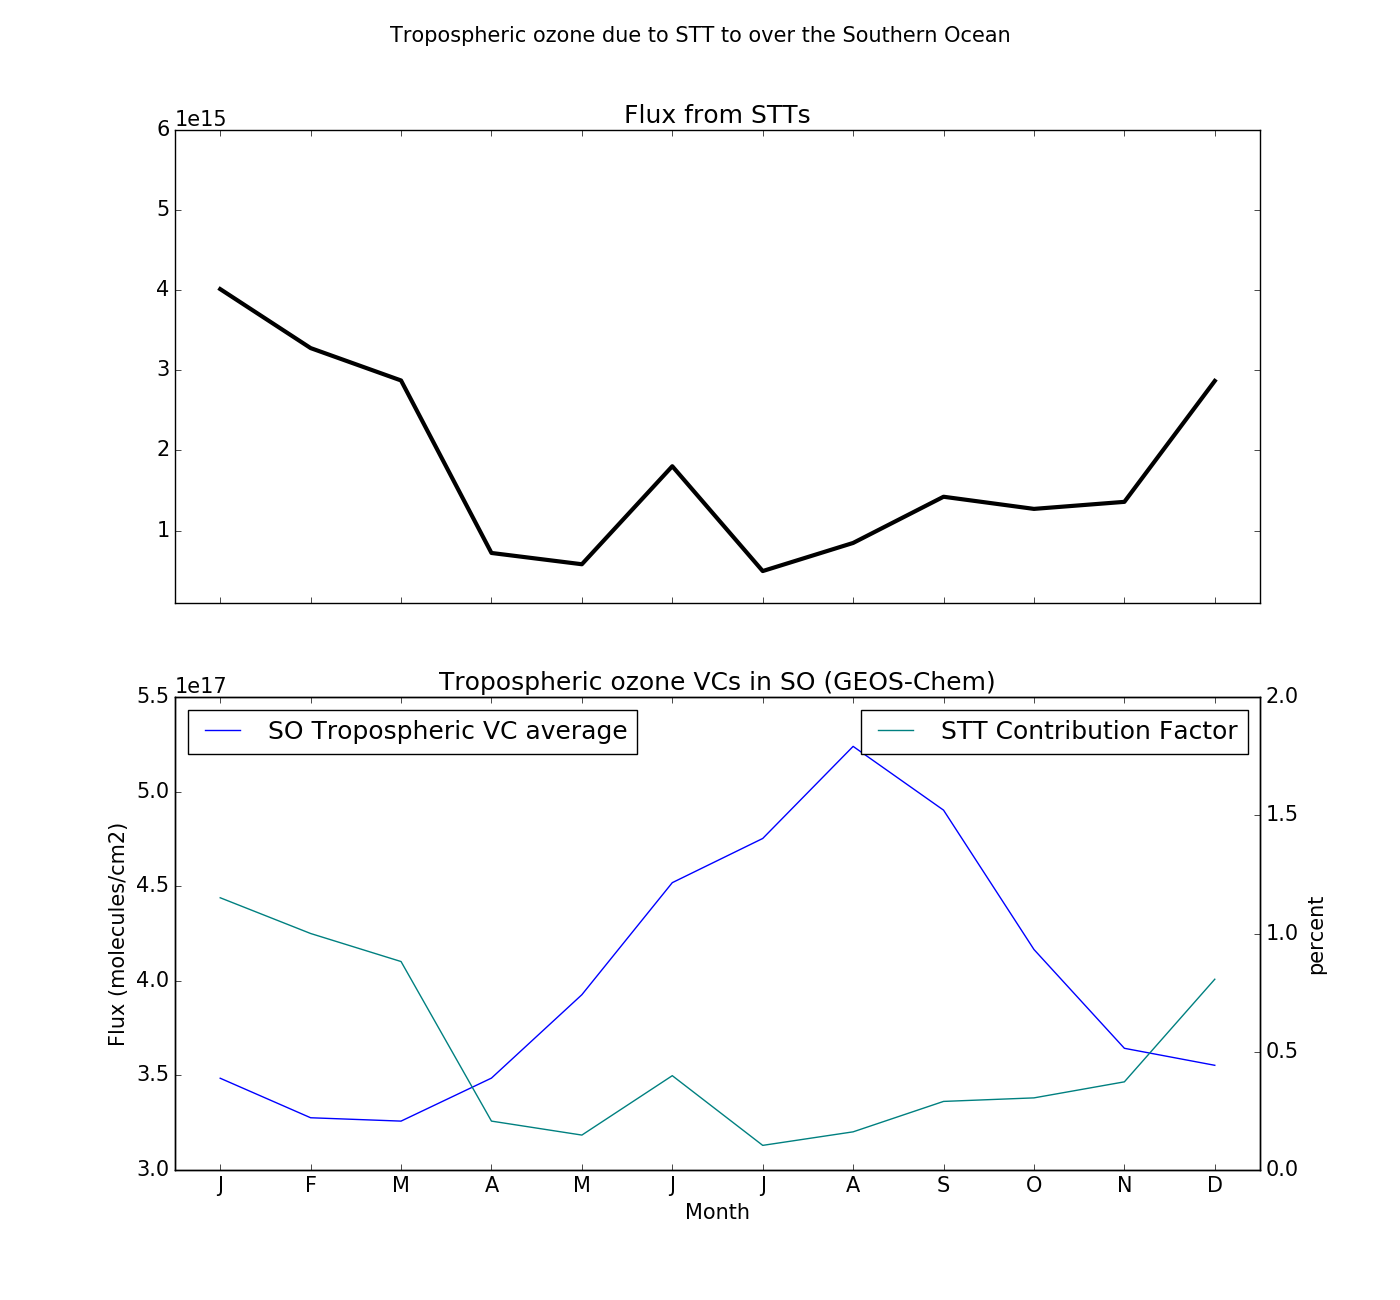
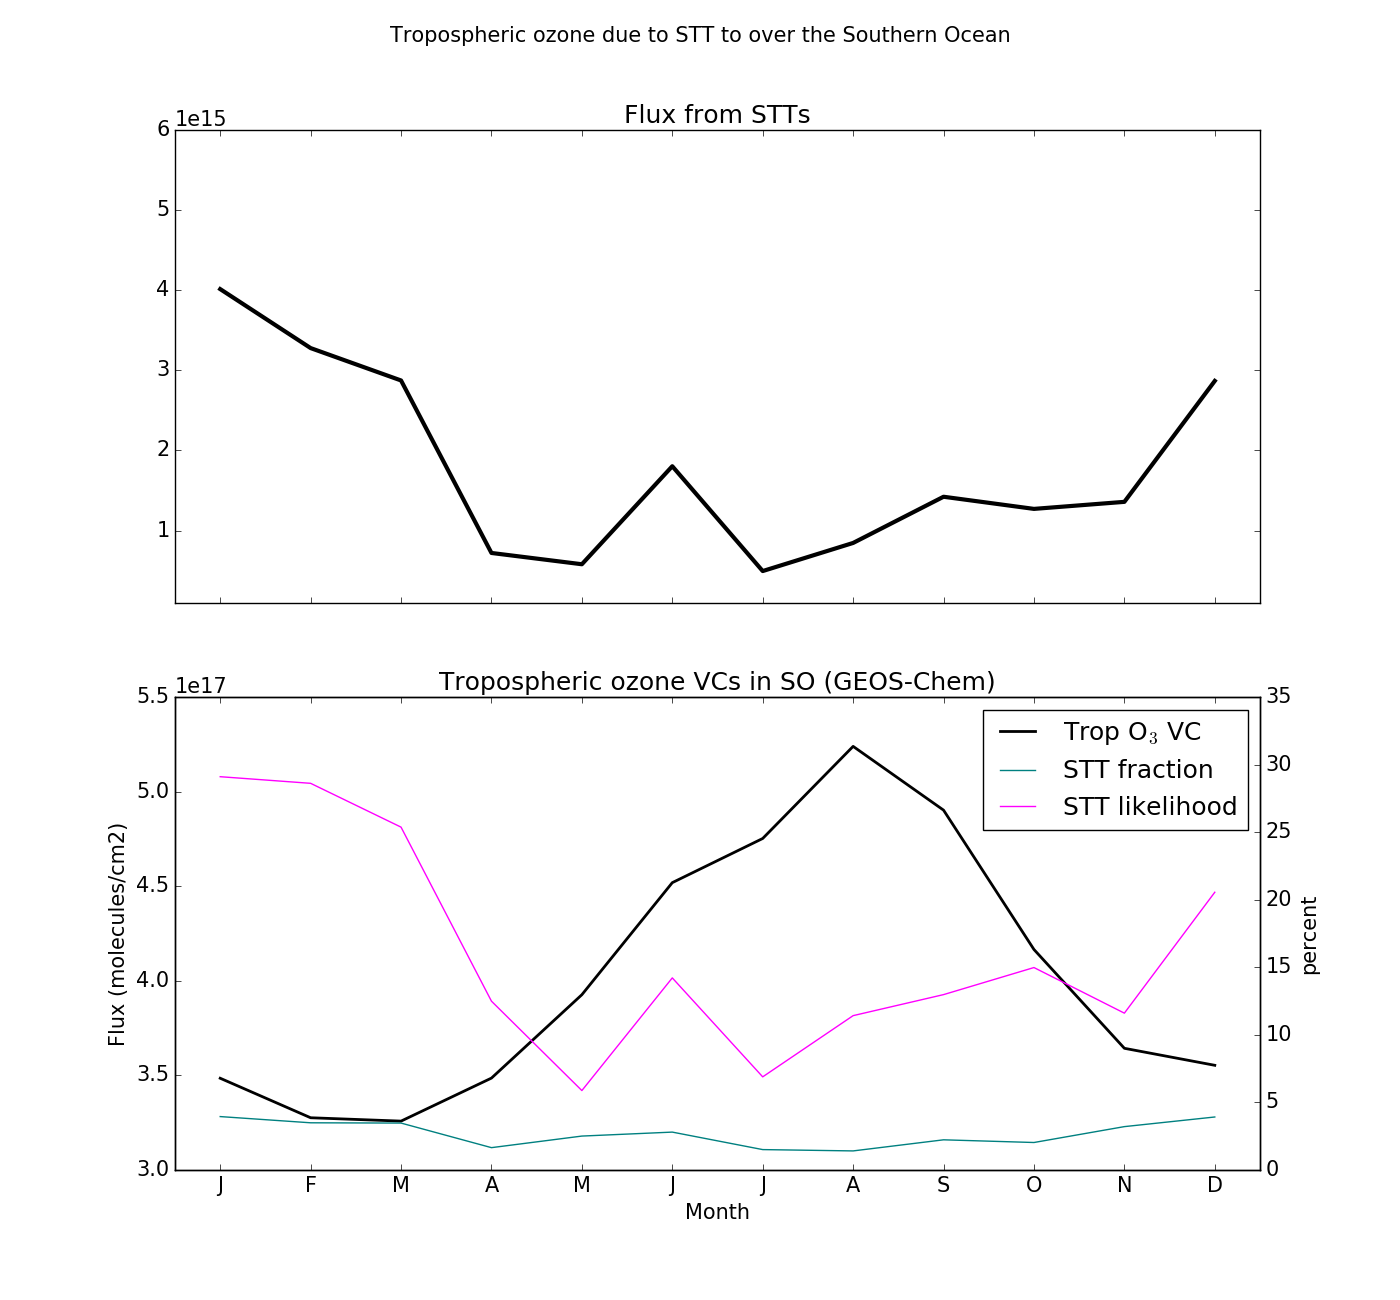
Extrapolation plot legend fixed, along with axes

diff --git a/examine_stations.py b/examine_stations.py
@@ -10,7 +10,7 @@
 
 # These stop python from displaying images, faster to save images this way
 import matplotlib
-#matplotlib.use('Agg')
+matplotlib.use('Agg')
 matplotlib.rcParams.update({'font.size': 15})
 
 # plotting, reading ncdf, csv, maths
@@ -31,34 +31,6 @@ seasonal_cmap=matplotlib.colors.ListedColormap(['fuchsia','chocolate','cyan','da
 ###########################################################################
 #####################    Functions                         ################
 ###########################################################################
-
-def check_GC_output():
-    
-    # read in GC data
-    GCData=fio.read_GC_global()
-    
-    # Check the surface ozone
-    data=GCData.O3density[0,0] # take first month, surface layer
-    
-    plt.figure(figsize=(14,10))
-    GCData.mapData(data,label="Molecules cm$^{-3}$")
-    plt.title("GEOS-Chem simulated surface ozone (Jan 2004)")
-    pltname="images/GEOS-Chem_surface_ozone_example.png"
-    plt.savefig(pltname)
-    print(pltname+ " saved")
-    plt.close()
-    
-    # Now check the Tropospheric VC
-    data=GCData.O3tropVC[0] # first time slice
-    
-    plt.figure(figsize=(14,10))
-    GCData.mapData(data,label="Molecules cm$^{-2}$")
-    plt.title("GEOS-Chem simulated tropospheric ozone Column (Jan 2004)")
-    plt.xlabel("$\Sigma_{z(troposphere)}($ Ozone ppb x $10^{-9}$x boxheight x$ N_{Air})$",fontsize=20)
-    pltname="images/GEOS-Chem_tropospheric_VC_example.png"
-    plt.savefig(pltname)
-    print(pltname+ " saved")
-    plt.close()
 
 def SO_extrapolation():
     '''
@@ -107,7 +79,7 @@ def SO_extrapolation():
     
     ax=axes[1]
     plt.sca(ax)
-    plt.plot(X, SOTropO3, label="SO Tropospheric VC average")
+    l1=plt.plot(X, SOTropO3, 'k', linewidth=2, label="Trop O$_3$ VC")
     plt.title("Tropospheric ozone VCs in SO (GEOS-Chem)")
     plt.xlim([-0.5, 11.5])
     plt.xlabel('Month')
@@ -117,14 +89,15 @@ def SO_extrapolation():
     # plot percentages
     newax=plt.twinx()
     # likelihood pct * pct contribution
-    newax.plot(X,l*f*100, color='teal', label='STT Contribution Factor')
-    #newax.plot(X,l*100, color='magenta', label='STT likelihood')
+    l2=newax.plot(X,f*100, color='teal', label='STT fraction')
+    l3=newax.plot(X,l*100, color='magenta', label='STT likelihood')
     
     # axes and legends
-    newax.legend(loc=1)
+    #newax.legend(loc=1)
     newax.set_ylabel('percent')
-    newax.set_ylim([0,2])
-    ax.legend(loc=2)
+    newax.set_ylim([0,35])
+    lns=l1+l2+l3
+    plt.legend(lns,[ln.get_label() for ln in lns], loc=0)
     ax.set_ylabel('Flux (molecules/cm2)')
     plt.xlim([-0.5, 11.5])
     ax.set_xlabel('Month')
@@ -699,6 +672,34 @@ def correlation(outfile='images/correlations.png'):
     print("Image saved to %s"%outfile)
     plt.close(f3)
 
+def check_GC_output():
+    
+    # read in GC data
+    GCData=fio.read_GC_global()
+    
+    # Check the surface ozone
+    data=GCData.O3density[0,0] # take first month, surface layer
+    
+    plt.figure(figsize=(14,10))
+    GCData.mapData(data,label="Molecules cm$^{-3}$")
+    plt.title("GEOS-Chem simulated surface ozone (Jan 2004)")
+    pltname="images/GEOS-Chem_surface_ozone_example.png"
+    plt.savefig(pltname)
+    print(pltname+ " saved")
+    plt.close()
+    
+    # Now check the Tropospheric VC
+    data=GCData.O3tropVC[0] # first time slice
+    
+    plt.figure(figsize=(14,10))
+    GCData.mapData(data,label="Molecules cm$^{-2}$")
+    plt.title("GEOS-Chem simulated tropospheric ozone Column (Jan 2004)")
+    plt.xlabel("$\Sigma_{z(troposphere)}($ Ozone ppb x $10^{-9}$x boxheight x$ N_{Air})$",fontsize=20)
+    pltname="images/GEOS-Chem_tropospheric_VC_example.png"
+    plt.savefig(pltname)
+    print(pltname+ " saved")
+    plt.close()
+
 ###########################################################################
 #####################    Run Section                       ################
 ###########################################################################
@@ -708,13 +709,13 @@ if __name__ == "__main__":
     #check_GC_output()
     #[event_profiles(s) for s in [0,1,2]]
     #time_series()
-    #monthly_profiles()
+    monthly_profiles()
     #monthly_profiles(degradesondes=True)
     #anomaly_correlation()
     #correlation()
     #yearly_cycle()
     #monthly_GC_profiles()
     #monthly_sonde_profiles()
-    SO_extrapolation()
+    #SO_extrapolation()
     #[monthly_GC_profiles(hour=h) for h in [0,6,12,18] ]
     
